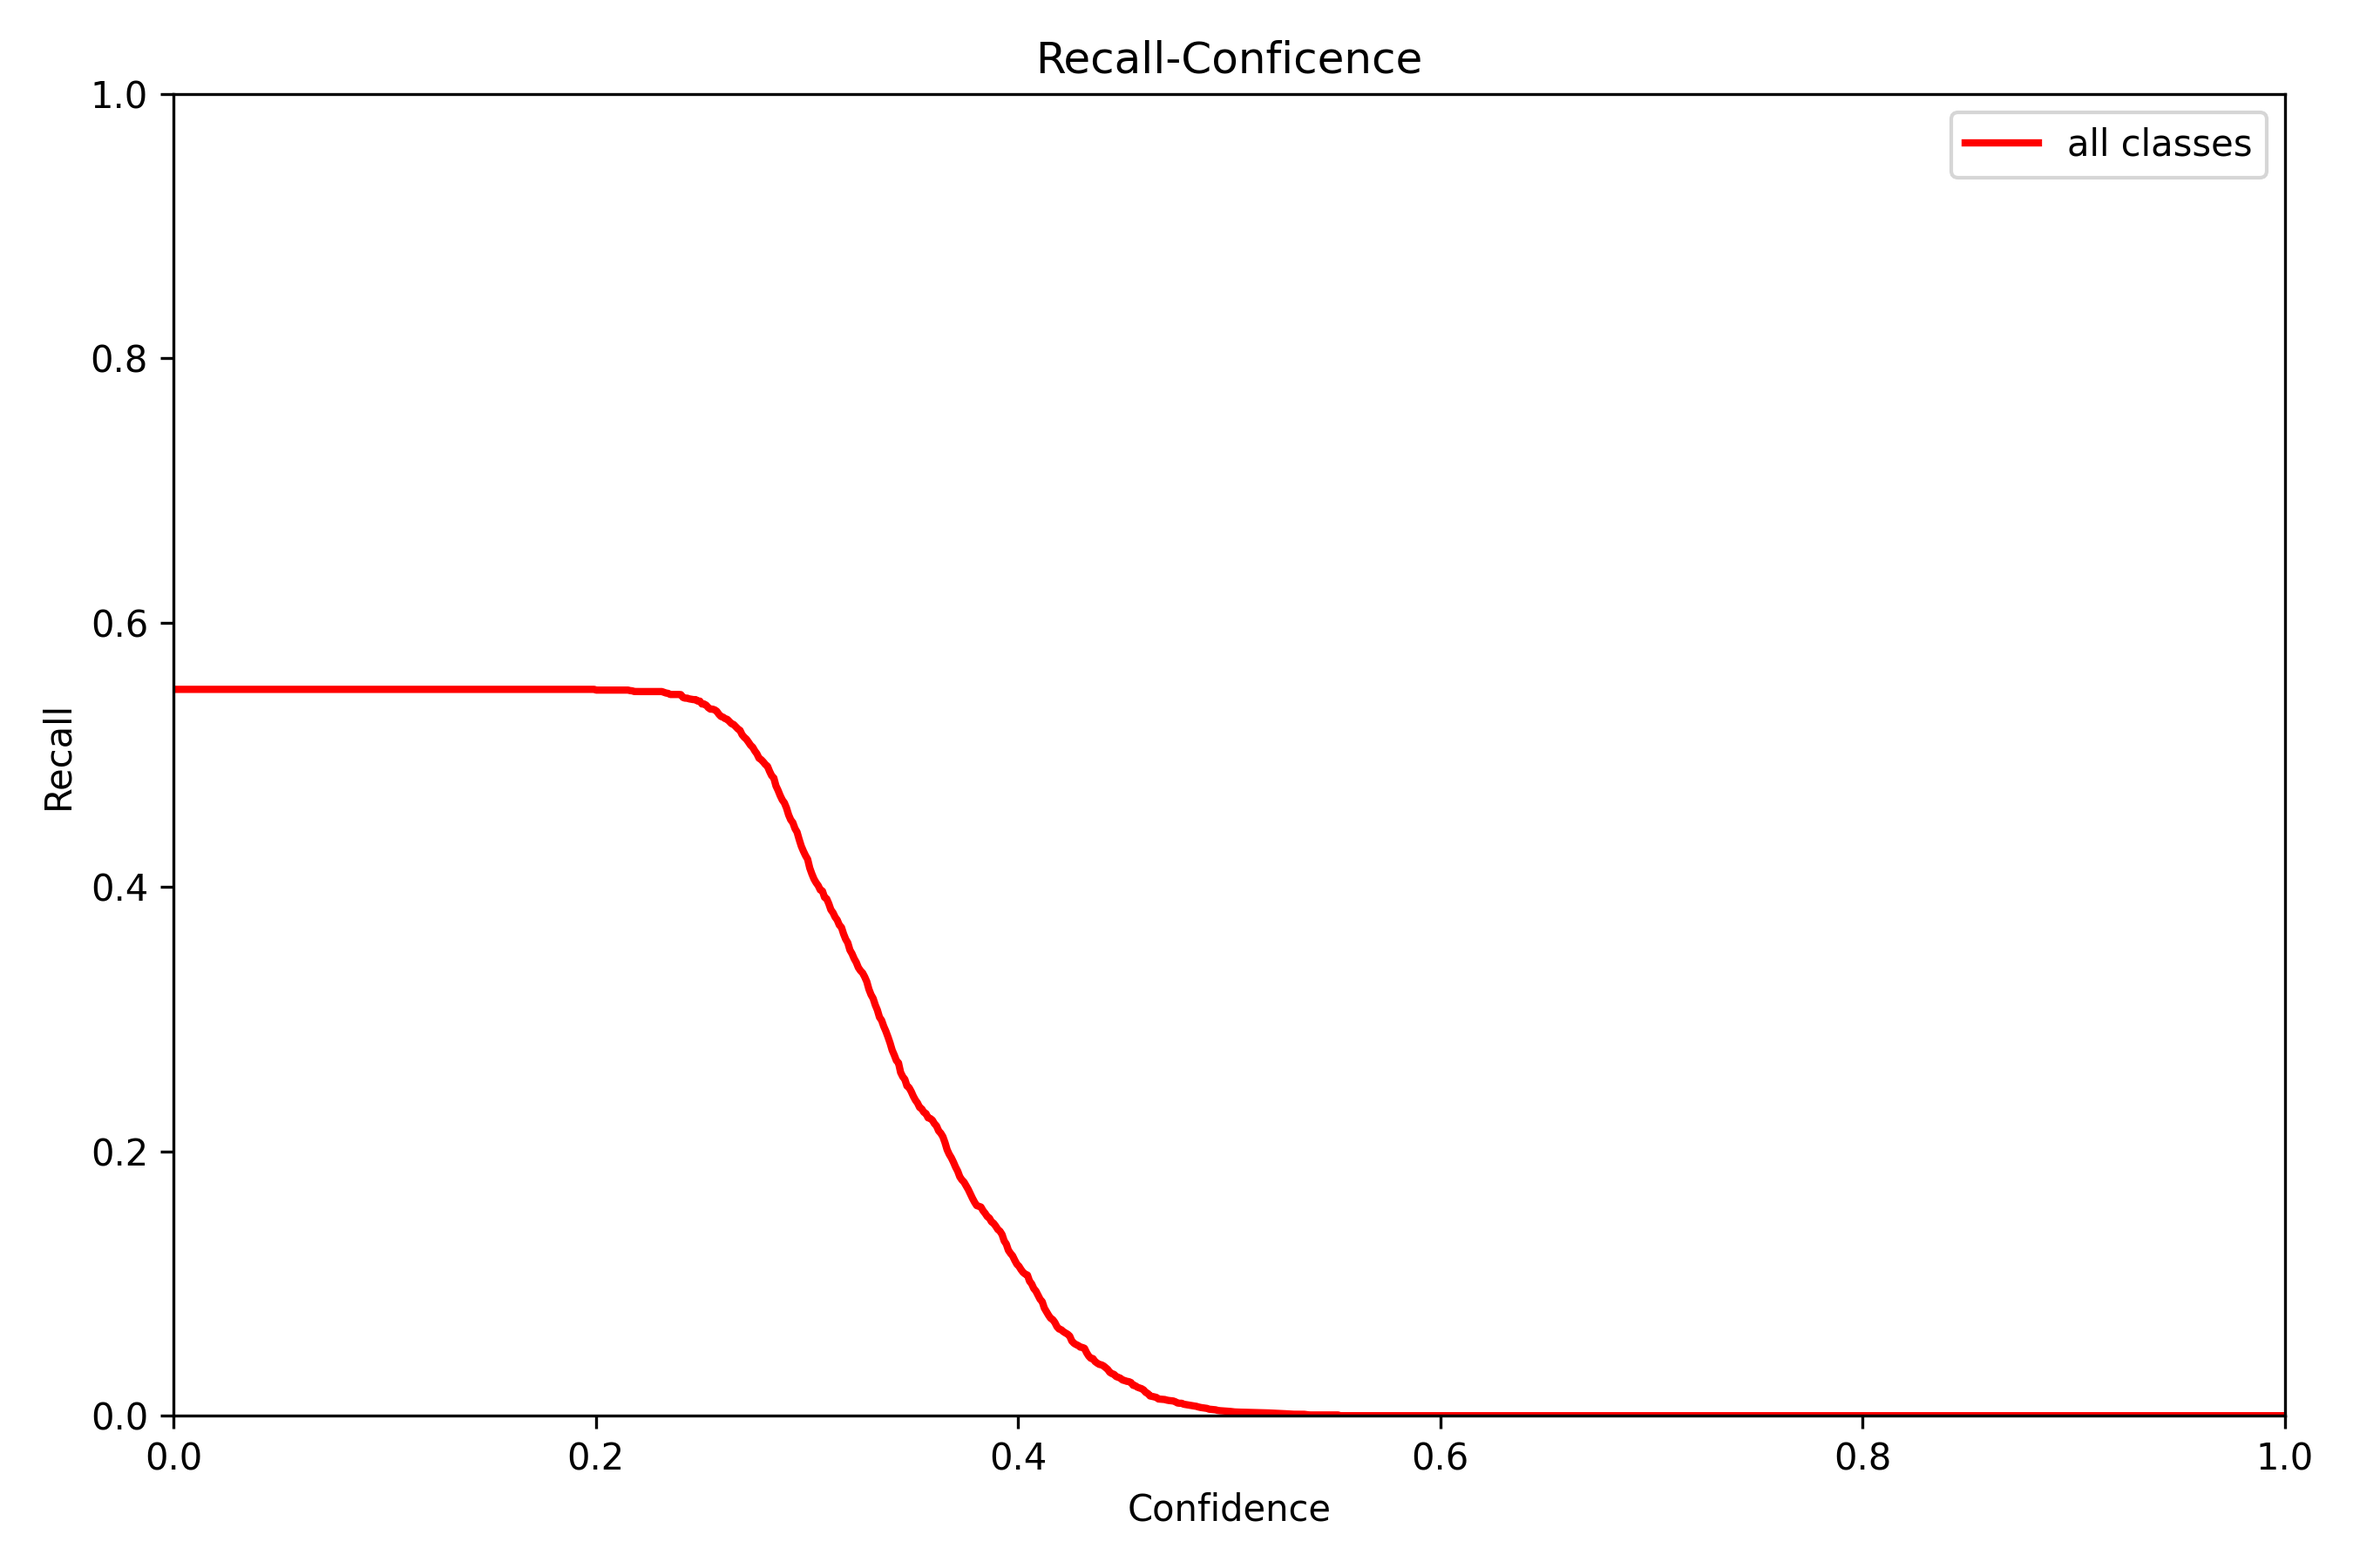
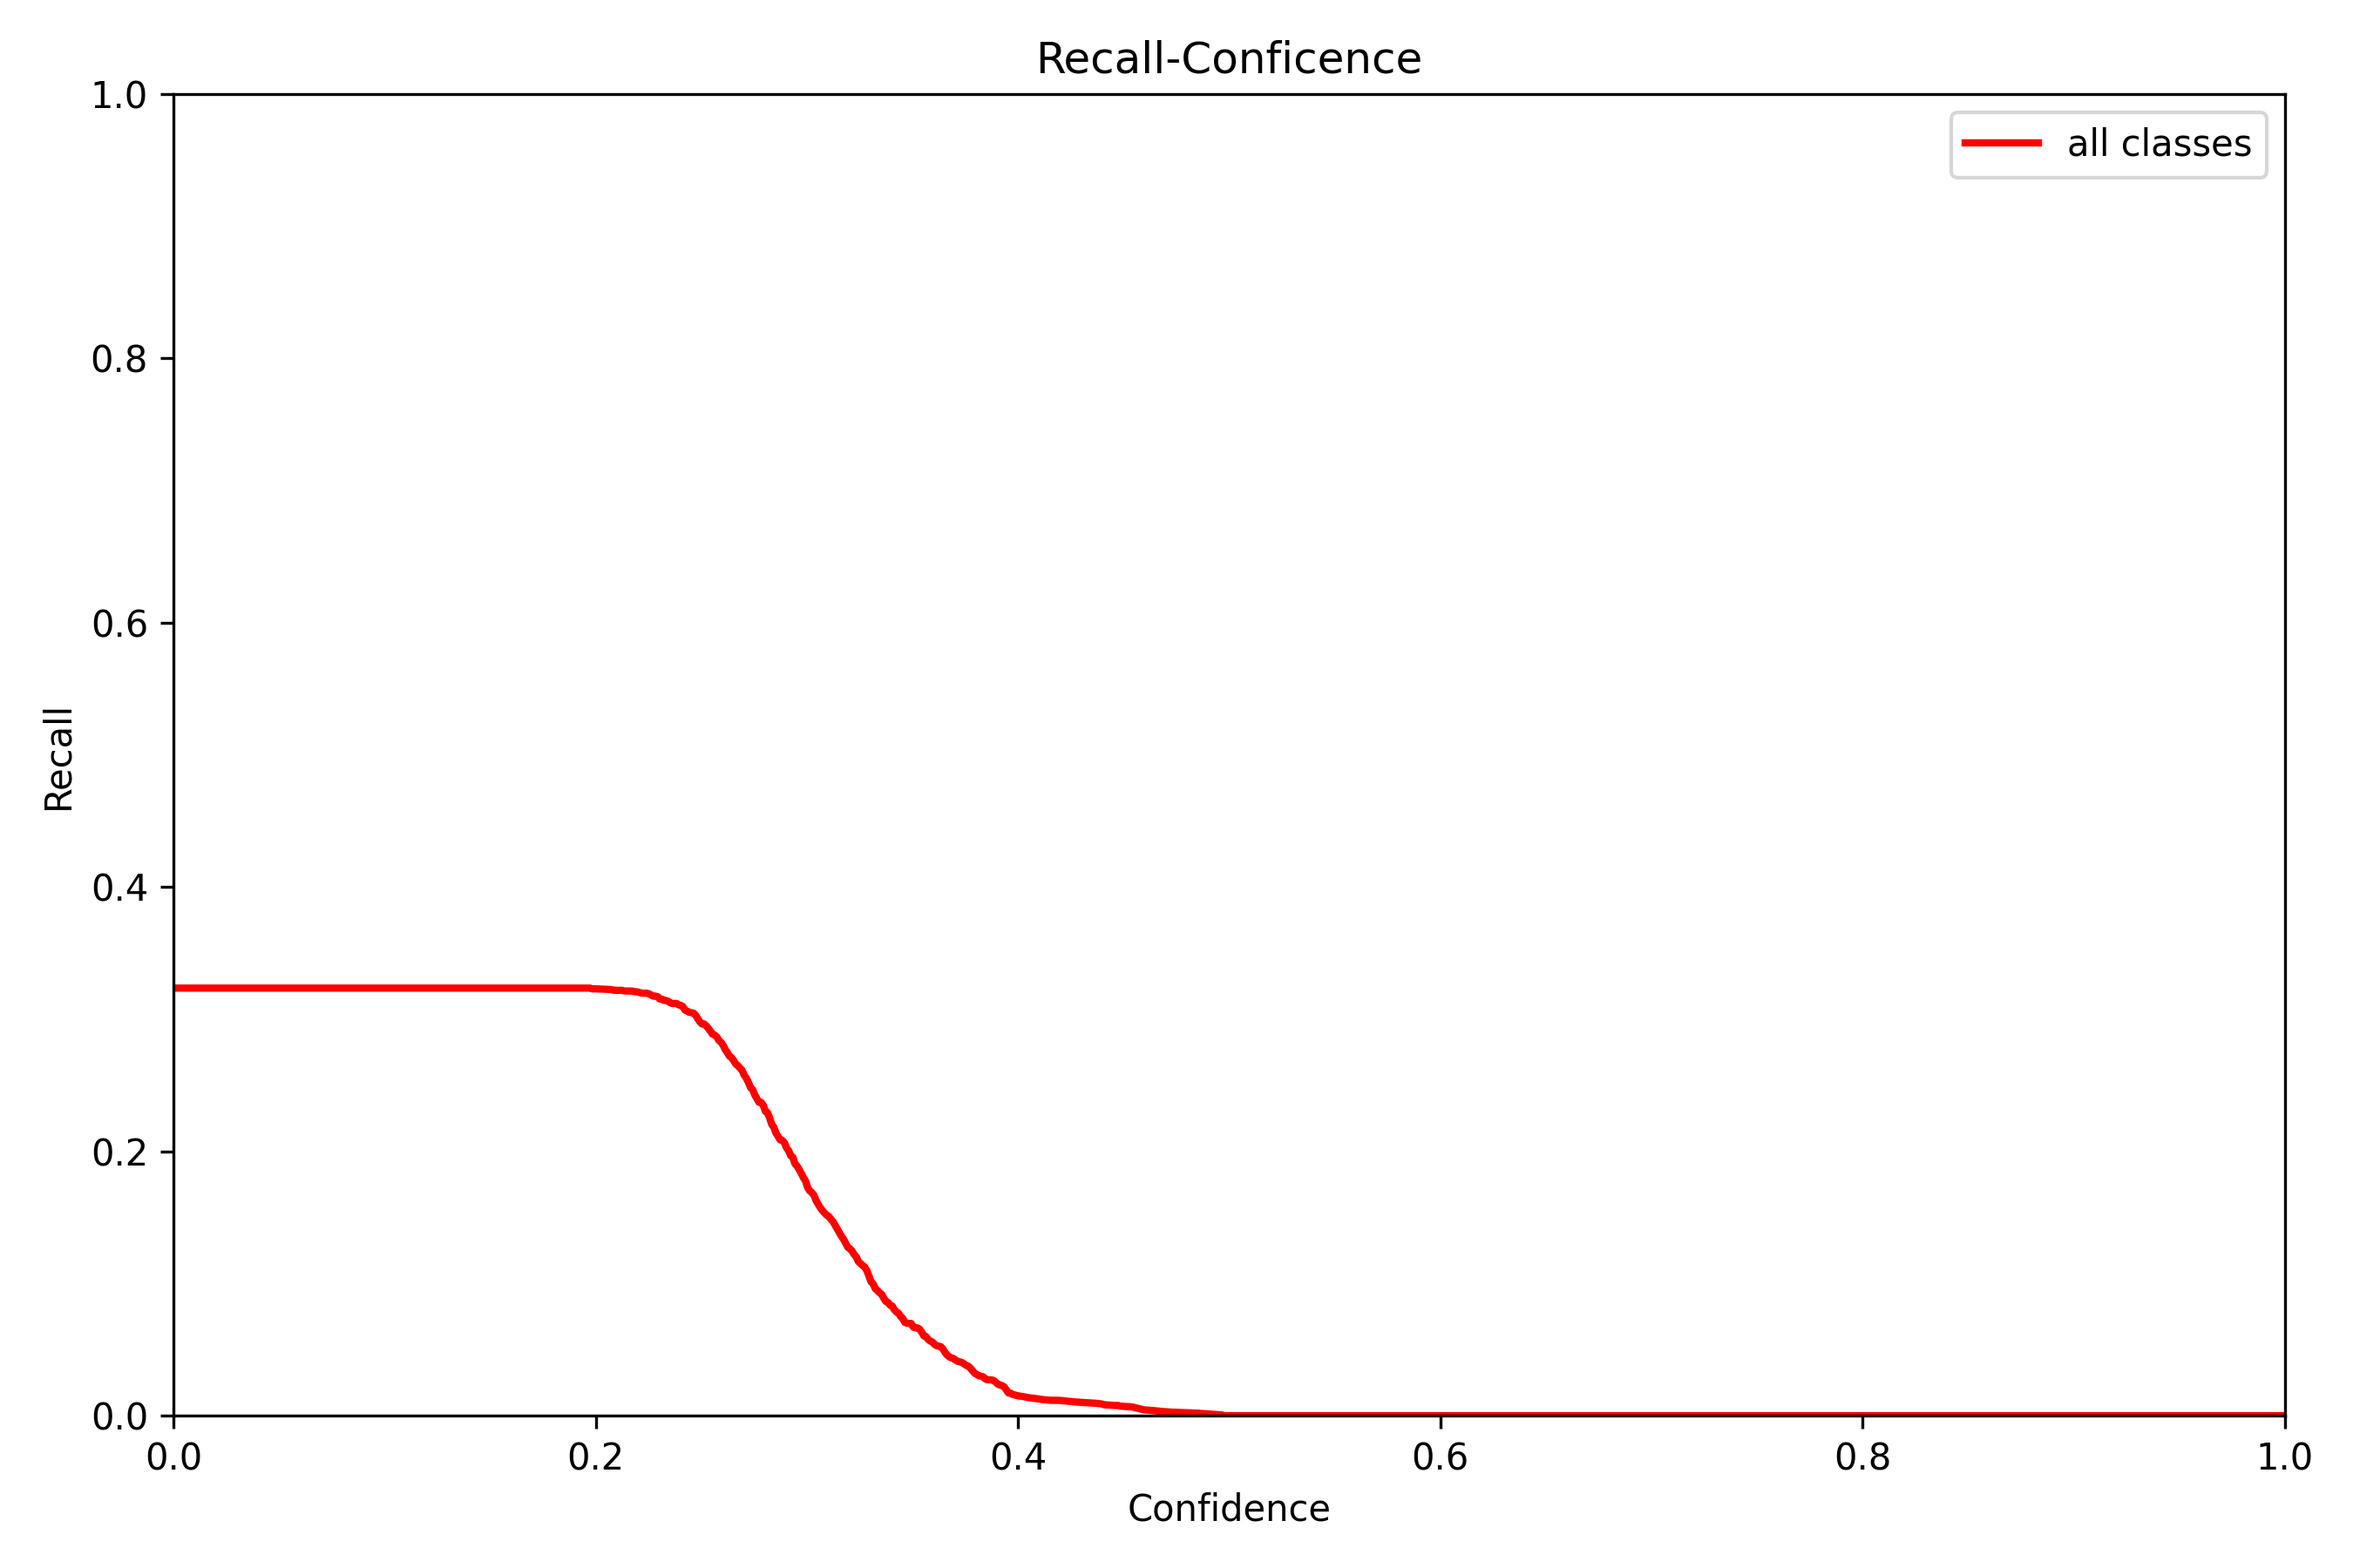
fix bugs in fcosbaseline

diff --git a/models/normal/fcos.py b/models/normal/fcos.py
@@ -24,23 +24,22 @@ class FCOSFPN(nn.Module):
         self.p3_1 = nn.Conv2d(c3_size, feature_size, 1, 1, 0)
         self.p3_2 = nn.Conv2d(feature_size, feature_size, 3, 1, 1)
 
-        self.p6 = nn.Conv2d(c5_size, feature_size, 3, 2, 1)
+        self.p6 = nn.Conv2d(feature_size, feature_size, 3, 2, 1)
         self.p7 = nn.Conv2d(feature_size, feature_size, 3, 2, 1)
 
     def forward(self, x):
         assert len(x) == 3
 
         c3, c4, c5 = x
-        p5 = self.p5_1(c5)
-        p5_upsample = self.p5_upsample(p5)
-        p5 = self.p5_2(p5)
+        p5 = self.p5_2(self.p5_1(c5))
 
         p4 = self.p4_1(c4)
+        p5_upsample = self.p5_upsample(p5)
         p4 += p5_upsample
-        p4_upsample = self.p4_upsample(p4)
         p4 = self.p4_2(p4)
 
         p3 = self.p3_1(c3)
+        p4_upsample = self.p4_upsample(p4)
         p3 += p4_upsample
         p3 = self.p3_2(p3)
 

diff --git a/train_fcos.py b/train_fcos.py
@@ -109,7 +109,8 @@ class Training:
 
     @property
     def select_model(self):
-        return FCOSCSPNet
+        # return FCOSCSPNet
+        return FCOSBaseline
 
     def _init_logger(self):
         # clear_dir(str(self.cwd / 'log'))  # 再写入log文件前先清空log文件夹
